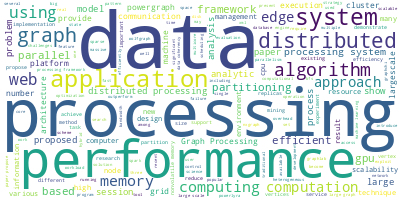
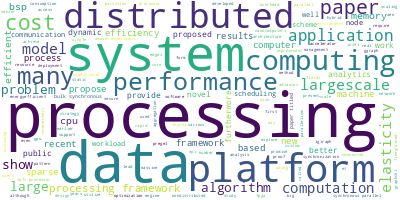
final version

diff --git a/mainSrc/scalability.py b/mainSrc/scalability.py
@@ -22,6 +22,8 @@ db = psycopg2.connect(user="postgres",
                       port="4444",
                       database="aip")
 
+#cant use scale since most false positives then have scale in the form of it is already large scale not the chane which is what we want
+
 query = """
     SELECT
         id, title, abstract, doi, n_citations
@@ -29,9 +31,9 @@ query = """
         publications 
     WHERE 
         (lower(title) LIKE ANY (array ['%serverless%', '%cloud%', '%cluster%', '%data center%']) OR lower(abstract) LIKE ANY (array ['%serverless%', '%cloud%', '%cluster%', '%data center%'])) AND
-        (lower(title) LIKE ANY (array ['%energy%', '%green%', '%cooling%', '%heat%', '%resource utilization%']) OR lower(abstract) LIKE ANY (array ['%energy%', '%green%', '%cooling%', '%heat%', '%resource utilization%'])) AND
+        (lower(title) LIKE ANY (array ['%scalability%', '%scale up%', '%extensibility%']) OR lower(abstract) LIKE ANY (array ['%scalability%', '%scale up%', '%extensibility%'])) AND
         (lower(title) LIKE '%graph processing%' OR lower(abstract) LIKE '%graph processing%') AND
-        (lower(title) NOT LIKE '%journal%' AND lower(title) NOT LIKE '%proceedings%' AND lower(title) NOT LIKE '%keynote%')
+         (lower(title) NOT LIKE '%journal%' AND lower(title) NOT LIKE '%proceedings%' AND lower(title) NOT LIKE '%keynote%')
 
     """
 class LDAModel:
@@ -47,7 +49,16 @@ max_cite = result['n_citations'].max()
 mean_cite = result['n_citations'].mean()
 median_cite = result['n_citations'].median()
 
-result['citations_normalized'] = result['n_citations'] / n_cite 
+result['citations_normalized'] = result['n_citations'] / n_cite
+
+print(" ------------------ scalability metrics ------------------ ")
+print("number of papers ", result.shape[0])
+print("sum of citations ", n_cite)
+print("max of citations ", max_cite)
+print("median of citations ", median_cite)
+print("mean of citations ", mean_cite)
+
+exit()
 
 
 result['title'] = result['title'].map(lambda x: x.split())
@@ -70,18 +81,6 @@ result['abstract'] = result['abstract'].map(lambda line: list(filter(lambda toke
 
 # # #dont know if to stem or lemmatize i think neither
 
-
-
-stop_words = stopwords.words('english')
-#for scientific words
-stop_words.extend(['from', 'subject', 're', 'edu', 'use'])
-
-#to filter out words from the query
-stop_words.extend(['serverless', 'cloud', 'cluster', 'data-center','clouds', 'clusters', 'data-centers', 'energy', 'power', 'green', 'graph processing', 'graph', 'graphprocessing', 'graphs'])
-
-# remove stop words
-result['abstract'] = result['abstract'].map(lambda line: list(filter(lambda token: token not in stop_words, line)))
-
 # # Add bigrams and trigrams to docs (only ones that appear 20 times or more).
 prior = []
 for line in result.abstract.values:
@@ -96,6 +95,18 @@ for line in result['abstract']:
                 print("add a bigram")
                 line[idx].append(token)
 
+
+
+stop_words = stopwords.words('english')
+#for scientific words
+stop_words.extend(['from', 'subject', 're', 'edu', 'use'])
+
+#to filter out words from the query
+stop_words.extend(['serverless', 'cloud', 'cluster', 'data-center', 'scalability', 'scale up', 'extensibility', 'graph processing', 'graph'])
+
+# remove stop words
+result['abstract'] = result['abstract'].map(lambda line: list(filter(lambda token: token not in stop_words, line)))
+
 # long_string = ','.join(prior)
 # # Create a WordCloud object
 # wordcloud = WordCloud(background_color="white", max_words=5000, contour_width=3, contour_color='steelblue')
@@ -103,18 +114,6 @@ for line in result['abstract']:
 # cloud = wordcloud.generate(long_string)
 # # Visualize the word cloud
 # cloud.to_file("mainSrc/img/cloud_vis.png")
-
-print(" ------------------ energy metrics ------------------ ")
-print("number of papers ", result.shape[0])
-print("sum of citations ", n_cite)
-print("max of citations ", max_cite)
-print("median of citations ", median_cite)
-print("mean of citations ", mean_cite)
-
-
-
-#we dont need the rest for the metrics
-exit()
 
 # Create Dictionary
 id2word = corpora.Dictionary(result['abstract'])
@@ -137,7 +136,7 @@ the main idea is this:
 generate 2 models all with the same parameters compare them to each other and
 1. find the topics that are most like each other to do that
     take topic of model a find the one it is most like if that topic recipocates we decide it is the same topic if it doesnt
-    it odd one out skip it for now this reduces the space necesarrily since there cannot be deadlock
+    it is the odd one out, skip it for now. this reduces the space necesarrily since there cannot be deadlock
     now we run the next round with reduced space
     diff(other, distance='kullback_leibler', num_words=100, n_ann_terms=10, diagonal=False, annotation=True, normed=True)
     take all permutations of topic matching and take the summed and normalized individual values
@@ -264,7 +263,7 @@ for topic in range(len(chosen_permutations)):
 
 # get_document_topics(bow, minimum_probability=None, minimum_phi_value=None, per_word_topics=False)
 # list of (int, float) – Topic distribution for the whole document. Each element in the list is a pair of a topic’s id, and the probability that was assigned to it.
-title = "no other docs"
+title = "doc"
 doi = "00.0000/journal.year"
 top_doc_for_topic = [[title,0.0,doi]for i in range(num_topics)]
 importance_metric = 0.0
@@ -284,8 +283,7 @@ for idx in range(num_topics):
             top_doc_for_topic[idx][2] = result['doi'][i]
 
 
-
-print(" ------------------ energy metrics ------------------ ")
+print(" ------------------ scalability metrics ------------------ ")
 print("number of papers ", result.shape[0])
 print("sum of citations ", n_cite)
 print("max of citations ", max_cite)

diff --git a/mainSrc/Lantency.py b/mainSrc/Lantency.py
@@ -29,9 +29,9 @@ query = """
         publications 
     WHERE 
         (lower(title) LIKE ANY (array ['%serverless%', '%cloud%', '%cluster%', '%data center%']) OR lower(abstract) LIKE ANY (array ['%serverless%', '%cloud%', '%cluster%', '%data center%'])) AND
-        (lower(title) LIKE ANY (array ['%energy%', '%green%', '%cooling%', '%heat%', '%resource utilization%']) OR lower(abstract) LIKE ANY (array ['%energy%', '%green%', '%cooling%', '%heat%', '%resource utilization%'])) AND
+        (lower(title) LIKE ANY (array ['%latency%', '%runtime%', '%time complexity%', '%time-complexity%', '%TTC%', '%time to completion%']) OR lower(abstract) LIKE ANY (array ['%latency%', '%runtime%', '%time complexity%', '%time-complexity%', '%TTC%', '%time to completion%'])) AND
         (lower(title) LIKE '%graph processing%' OR lower(abstract) LIKE '%graph processing%') AND
-        (lower(title) NOT LIKE '%journal%' AND lower(title) NOT LIKE '%proceedings%' AND lower(title) NOT LIKE '%keynote%')
+         (lower(title) NOT LIKE '%journal%' AND lower(title) NOT LIKE '%proceedings%' AND lower(title) NOT LIKE '%keynote%')
 
     """
 class LDAModel:
@@ -55,6 +55,16 @@ result['abstract'] = result['abstract'].map(lambda x: x.split())
 for idx in range(len(result['title'])):
     result['abstract'][idx].extend(result['title'][idx])
 
+print(" ------------------ Latency metrics ------------------ ")
+print("number of papers ", result.shape[0])
+print("sum of citations ", n_cite)
+print("max of citations ", max_cite)
+print("median of citations ", median_cite)
+print("mean of citations ", mean_cite)
+
+exit()
+
+
 
 #remove punctuation
 result['abstract'] = result['abstract'].map(lambda line: list(map(lambda x: re.sub('[,\.:;!?()-]', '', x), line)))
@@ -70,18 +80,6 @@ result['abstract'] = result['abstract'].map(lambda line: list(filter(lambda toke
 
 # # #dont know if to stem or lemmatize i think neither
 
-
-
-stop_words = stopwords.words('english')
-#for scientific words
-stop_words.extend(['from', 'subject', 're', 'edu', 'use'])
-
-#to filter out words from the query
-stop_words.extend(['serverless', 'cloud', 'cluster', 'data-center','clouds', 'clusters', 'data-centers', 'energy', 'power', 'green', 'graph processing', 'graph', 'graphprocessing', 'graphs'])
-
-# remove stop words
-result['abstract'] = result['abstract'].map(lambda line: list(filter(lambda token: token not in stop_words, line)))
-
 # # Add bigrams and trigrams to docs (only ones that appear 20 times or more).
 prior = []
 for line in result.abstract.values:
@@ -96,6 +94,18 @@ for line in result['abstract']:
                 print("add a bigram")
                 line[idx].append(token)
 
+
+
+stop_words = stopwords.words('english')
+#for scientific words
+stop_words.extend(['from', 'subject', 're', 'edu', 'use'])
+
+#to filter out words from the query
+stop_words.extend(['serverless', 'cloud', 'cluster', 'data-center', 'latency', 'runtime', 'time complexity', 'time-complexity', 'TTC', 'time to completion', 'graph processing', 'graph'])
+
+# remove stop words
+result['abstract'] = result['abstract'].map(lambda line: list(filter(lambda token: token not in stop_words, line)))
+
 # long_string = ','.join(prior)
 # # Create a WordCloud object
 # wordcloud = WordCloud(background_color="white", max_words=5000, contour_width=3, contour_color='steelblue')
@@ -103,18 +113,6 @@ for line in result['abstract']:
 # cloud = wordcloud.generate(long_string)
 # # Visualize the word cloud
 # cloud.to_file("mainSrc/img/cloud_vis.png")
-
-print(" ------------------ energy metrics ------------------ ")
-print("number of papers ", result.shape[0])
-print("sum of citations ", n_cite)
-print("max of citations ", max_cite)
-print("median of citations ", median_cite)
-print("mean of citations ", mean_cite)
-
-
-
-#we dont need the rest for the metrics
-exit()
 
 # Create Dictionary
 id2word = corpora.Dictionary(result['abstract'])
@@ -264,7 +262,7 @@ for topic in range(len(chosen_permutations)):
 
 # get_document_topics(bow, minimum_probability=None, minimum_phi_value=None, per_word_topics=False)
 # list of (int, float) – Topic distribution for the whole document. Each element in the list is a pair of a topic’s id, and the probability that was assigned to it.
-title = "no other docs"
+title = "doc"
 doi = "00.0000/journal.year"
 top_doc_for_topic = [[title,0.0,doi]for i in range(num_topics)]
 importance_metric = 0.0
@@ -284,8 +282,7 @@ for idx in range(num_topics):
             top_doc_for_topic[idx][2] = result['doi'][i]
 
 
-
-print(" ------------------ energy metrics ------------------ ")
+print(" ------------------ scalability metrics ------------------ ")
 print("number of papers ", result.shape[0])
 print("sum of citations ", n_cite)
 print("max of citations ", max_cite)

diff --git a/mainSrc/test.py b/mainSrc/test.py
@@ -128,56 +128,42 @@ print(to_exec)
 for row in range(len(three_zero)):
     for collumn in range(len(three_zero[row])):
         exec(to_exec)
-indices = np.where(new == np.amax(new))
-ziplist = []
-for index in indices:
-    ziplist.append(index)
-# zip the 2 arrays to get the exact coordinates
-listOfCordinates = list(zip(*ziplist))
-# travese over the list of cordinates
-print(listOfCordinates) # always atleast one
 
 print("this is 3 0 ")
 print(three_zero)
 print("this is the after combining")
 print(new)
 
-#this shit doesnt fucking work man
+num_topics = 3
+chosen_permutations = []
+for i in range(num_topics):
+    indices = np.where(new == np.amax(new))
+    ziplist = []
+    for index in indices:
+        ziplist.append(index)
+    # zip the 2 arrays to get the exact coordinates
+    listOfCordinates = list(zip(*ziplist))
+    # travese over the list of cordinates
+    print("first set of numbers")
+    print(listOfCordinates) # always atleast one
+    chosen_permutations.append(listOfCordinates[0])
 
-for dim in range(new.ndim):
-    print("this is the current dim {}".format(dim))
-    new = np.delete(new,listOfCordinates[0][dim],dim)
+    for indx in range(new.ndim):
+        string = "new["
+        for dim in range(new.ndim):
+            if dim == indx:
+                string += str(listOfCordinates[0][dim])
+            else:
+                string += ":"
+            if dim == new.ndim -1:
+                string += "]"
+                break
+            string += ","
+        string = string + " = 0"
+        exec(string)
 
-print("this is the new new array")
-print(new)
-indices = np.where(new == np.amax(new))
-ziplist = []
-for index in indices:
-    ziplist.append(index)
-# zip the 2 arrays to get the exact coordinates
-listOfCordinates = list(zip(*ziplist))
-# travese over the list of cordinates
-print(listOfCordinates) # always atleast one
+print("final all")
+print(chosen_permutations) # always atleast one
+    
 
-for dim in range(new.ndim):
-    print("this is the current dim {}".format(dim))
-    new = np.delete(new,listOfCordinates[0][dim],dim)
-
-print("this is the new new array")
-print(new)
-indices = np.where(new == np.amax(new))
-ziplist = []
-for index in indices:
-    ziplist.append(index)
-# zip the 2 arrays to get the exact coordinates
-listOfCordinates = list(zip(*ziplist))
-# travese over the list of cordinates
-print(listOfCordinates) # always atleast one
-
-
-
-# print("this is the to add \n", AC)
-# print("this is the old \n", AB)
-# print("this is the new \n", new)
-
-# print("this is test", new[0,:,:])
+print("this is the new \n", new)
